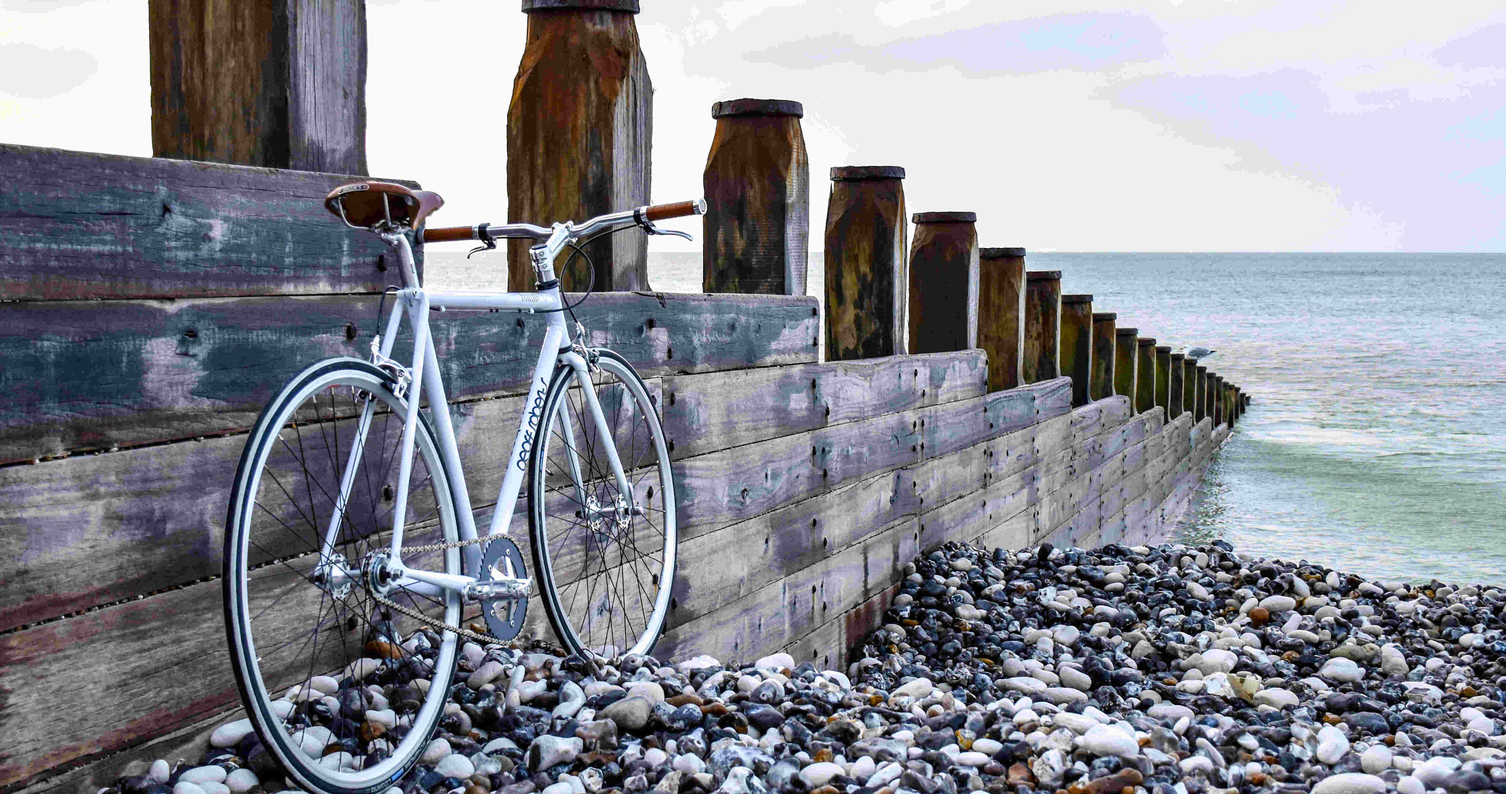
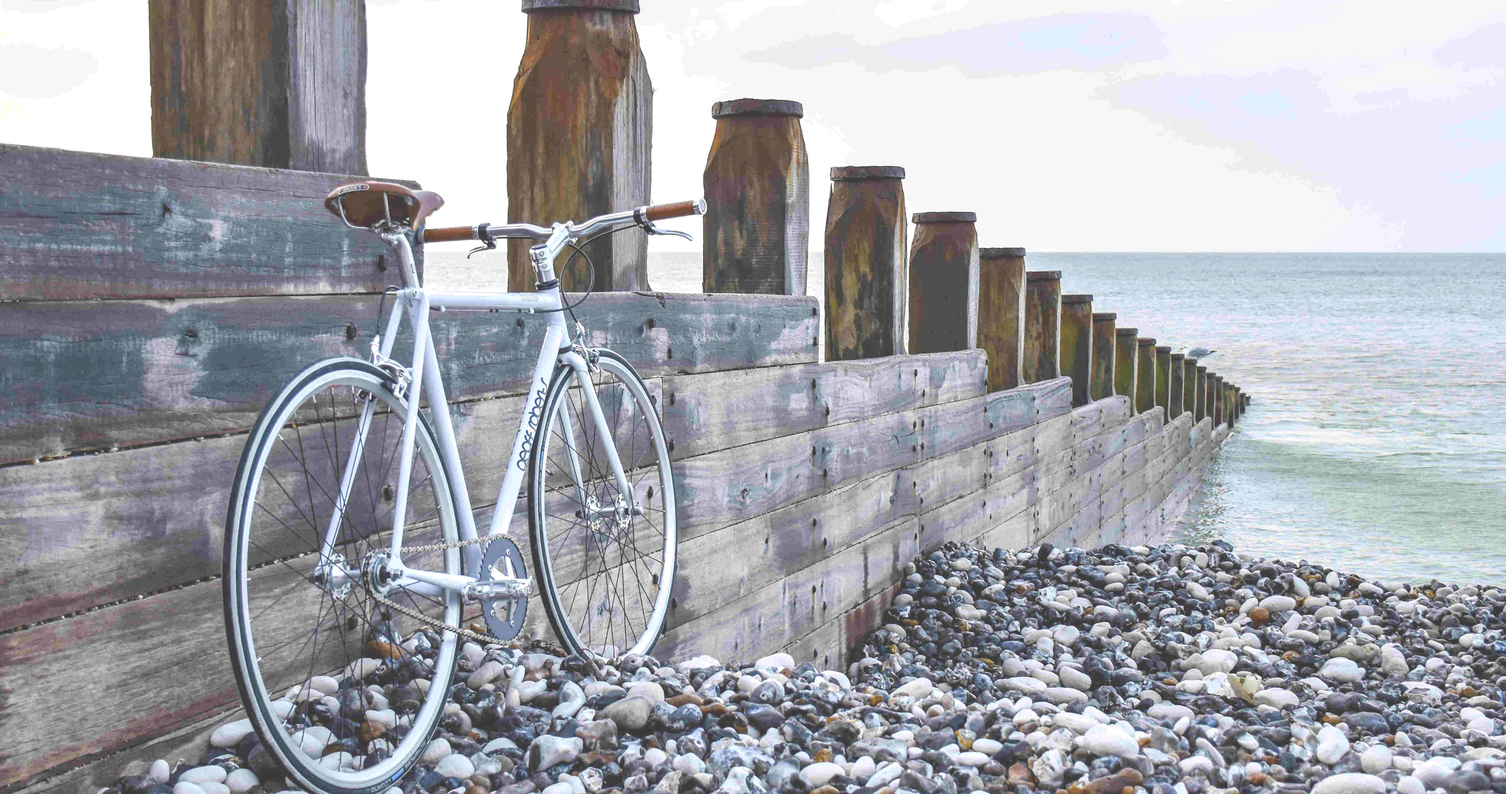
Change hero image and text color

diff --git a/src/components/MyHero.js b/src/components/MyHero.js
@@ -5,13 +5,14 @@ import Image from 'grommet/components/Image';
 import Box from 'grommet/components/Box';
 import Heading from 'grommet/components/Heading';
 import Carousel from 'grommet/components/Carousel';
+import styles from './MyHero.module.scss';
 
 class MyHero extends React.Component {
 
   render() {
     return (
       <Hero
-        background={ <Image fit="cover" size="large" src="/public/bikebeach.jpeg" /> }
+        background={ <Image fit="cover" size="large" src="/public/bikegrass.jpeg" /> }
         backgroundColorIndex="dark"
         size="large"
       >
@@ -29,7 +30,7 @@ class MyHero extends React.Component {
           <Box basis="large"
                align="start"
                pad="none">
-            <Heading margin="none" uppercase={true} strong={false}>
+            <Heading className={styles.heading} margin="none" uppercase={true} strong={false}>
               Nordic Bikes
             </Heading>
           </Box>

diff --git a/src/components/MyHero.module.scss b/src/components/MyHero.module.scss
@@ -1,0 +1,3 @@
+.heading {
+  color: black;
+}
